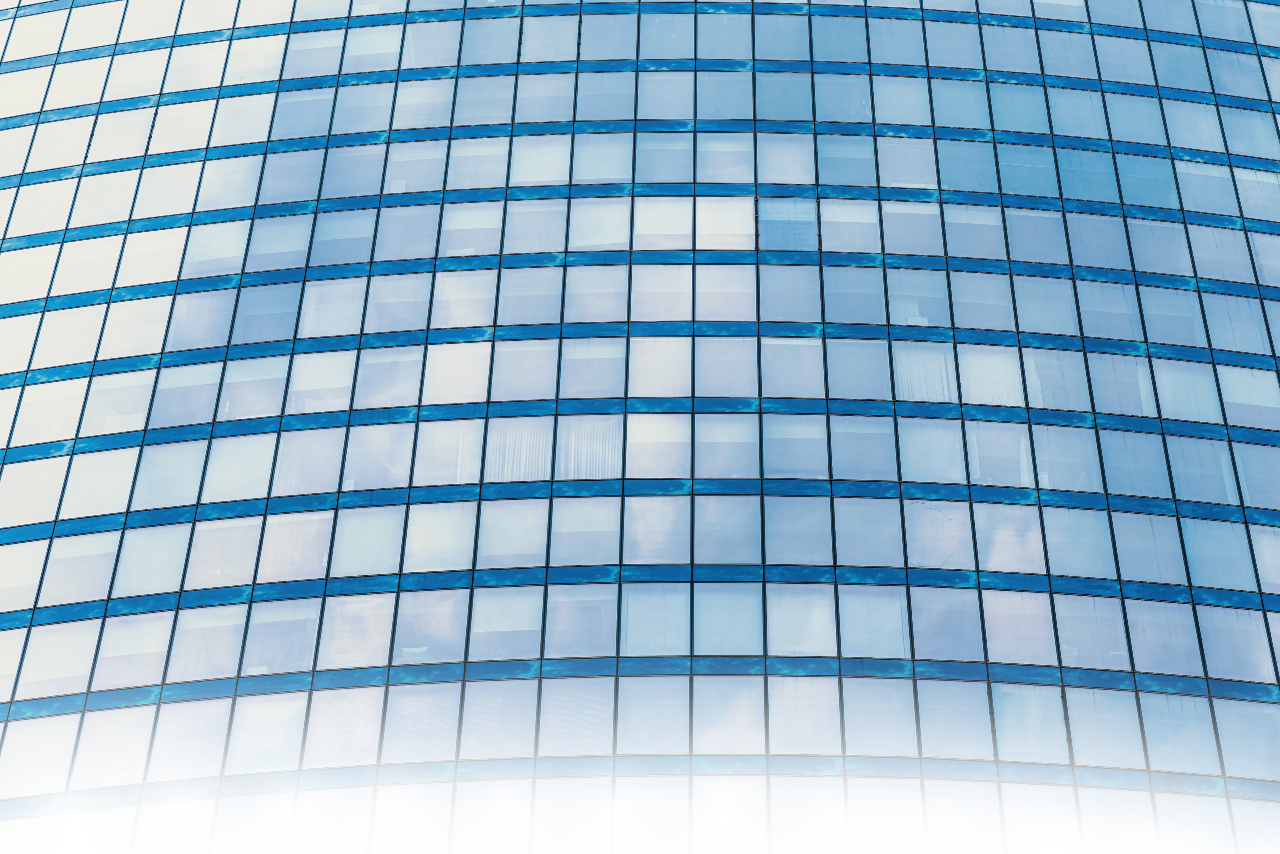
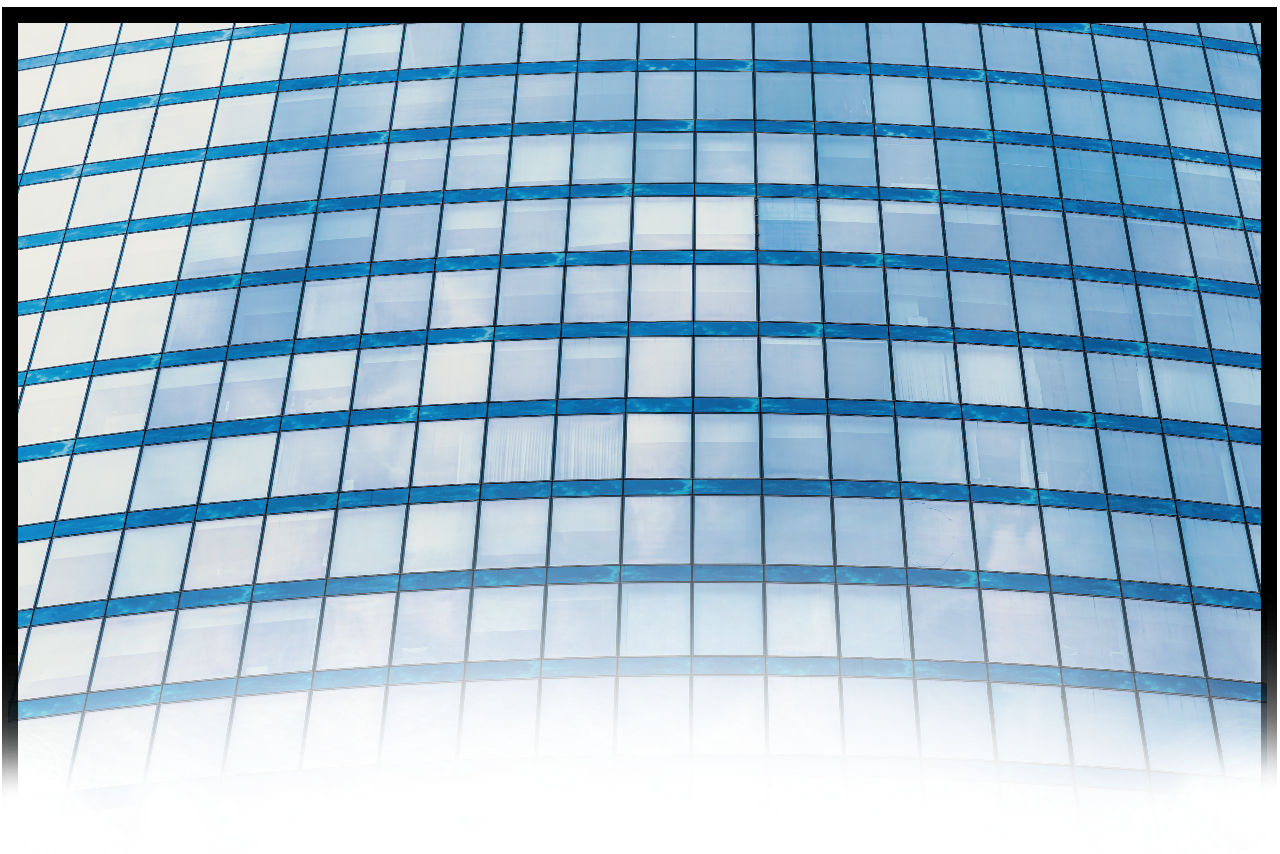
fixed createstoree

Changed region(s): [[0.0, 0.0, 1.0, 0.9742]]

diff --git a/src/index.css b/src/index.css
@@ -28,7 +28,7 @@ code {
 }
 
 html {
-  background-color: #5e5e5e;
+  background-color: #232121;
 }
 
 /* ------------------------------------------------------ */
